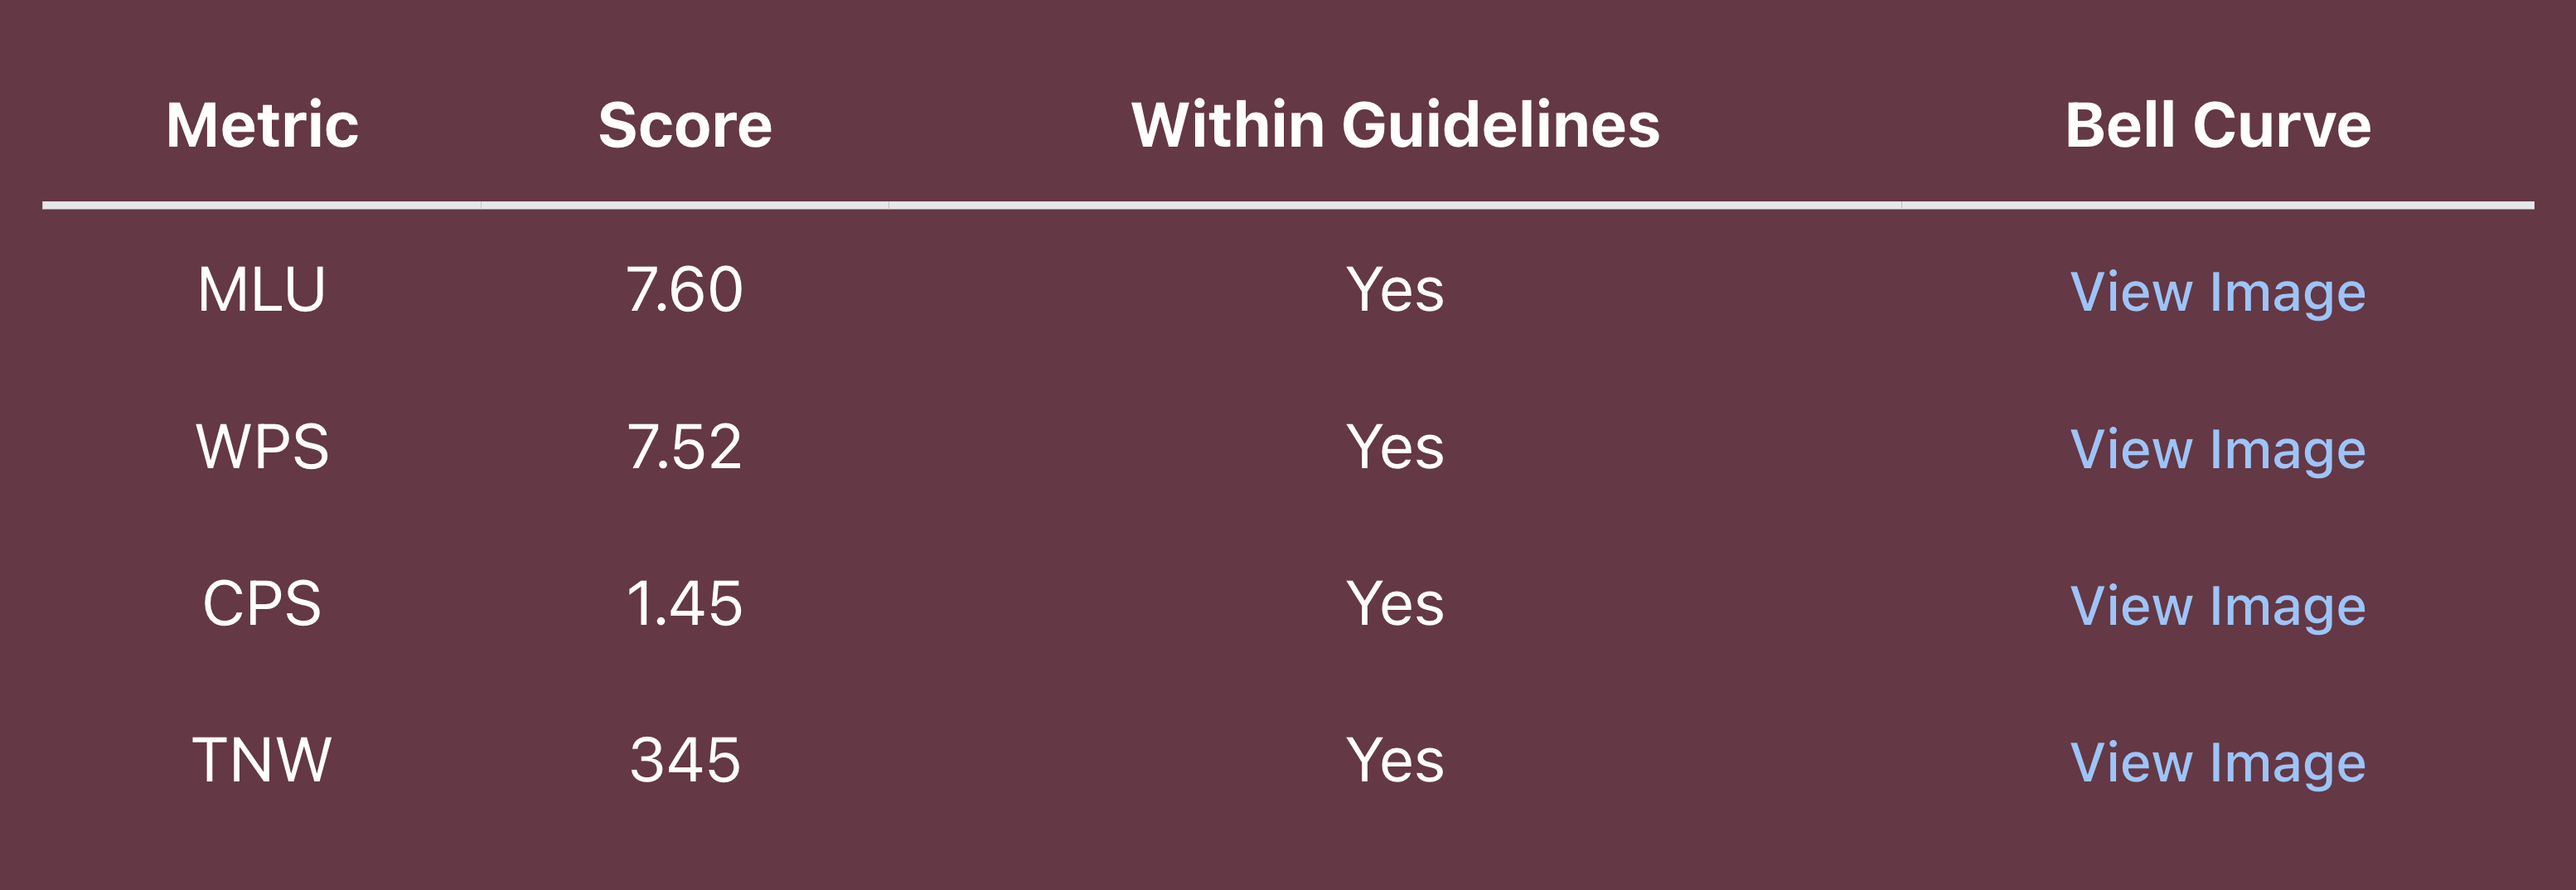
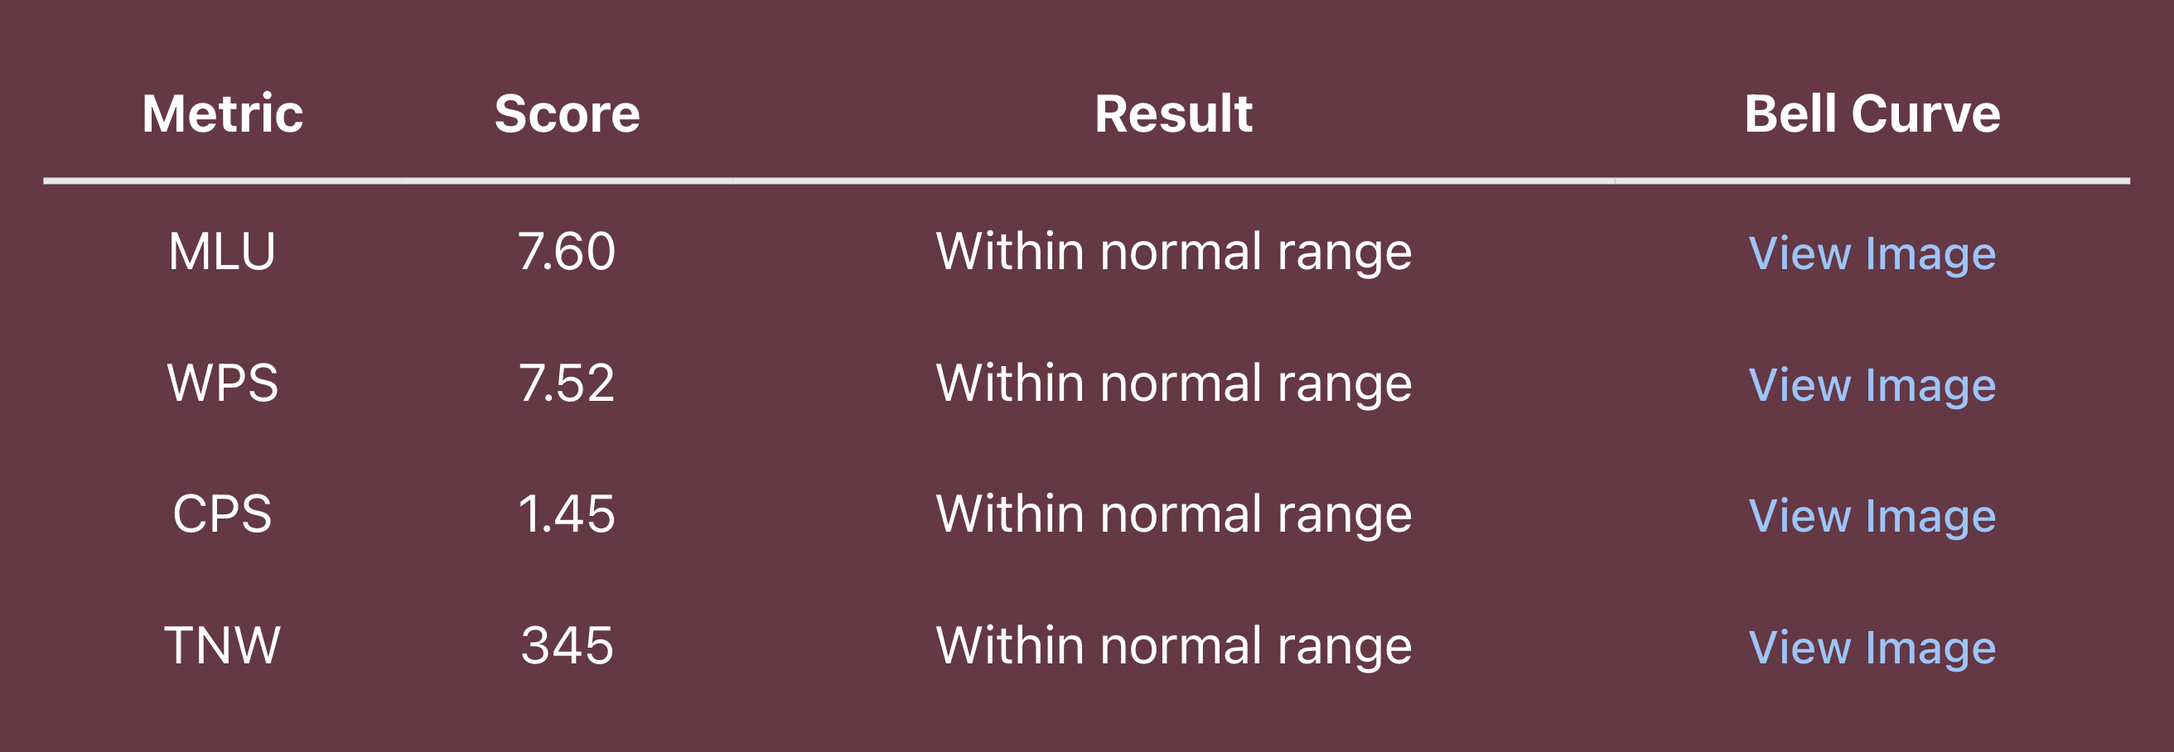
add docs to Help with new change

diff --git a/web/src/Help.tsx b/web/src/Help.tsx
@@ -51,7 +51,7 @@ const HelpPage = () => {
         When it finishes, it will show the four SUGAR scores in a table like this:
         <img src="/help-table.png"></img>
 
-        Here you can see the individual scores and whether they meet the normative criteria. A score meets the criteria if it is above two standard deviations below the mean. You can see what the means and standard deviations are across age groups on the SUGAR <a href="https://www.sugarlanguage.org/downloads" target="_blank">downloads</a> page.
+        Here you can see the individual scores and whether they are in the normal range, below average, or delayed. A score is considered <b>normal</b> if it is greater than one standard deviation below the mean; a score is considered <b>below average</b> if it is between one and two standard deviations below the mean; and a score is considered <b>delayed</b> if it is below two standard deviations from the mean. You can see what the means and standard deviations are across age groups on the SUGAR <a href="https://www.sugarlanguage.org/downloads" target="_blank">downloads</a> page.
 
         This table also allows you to visualize the score on a bell curve by clicking "View Image".
         <br></br>
